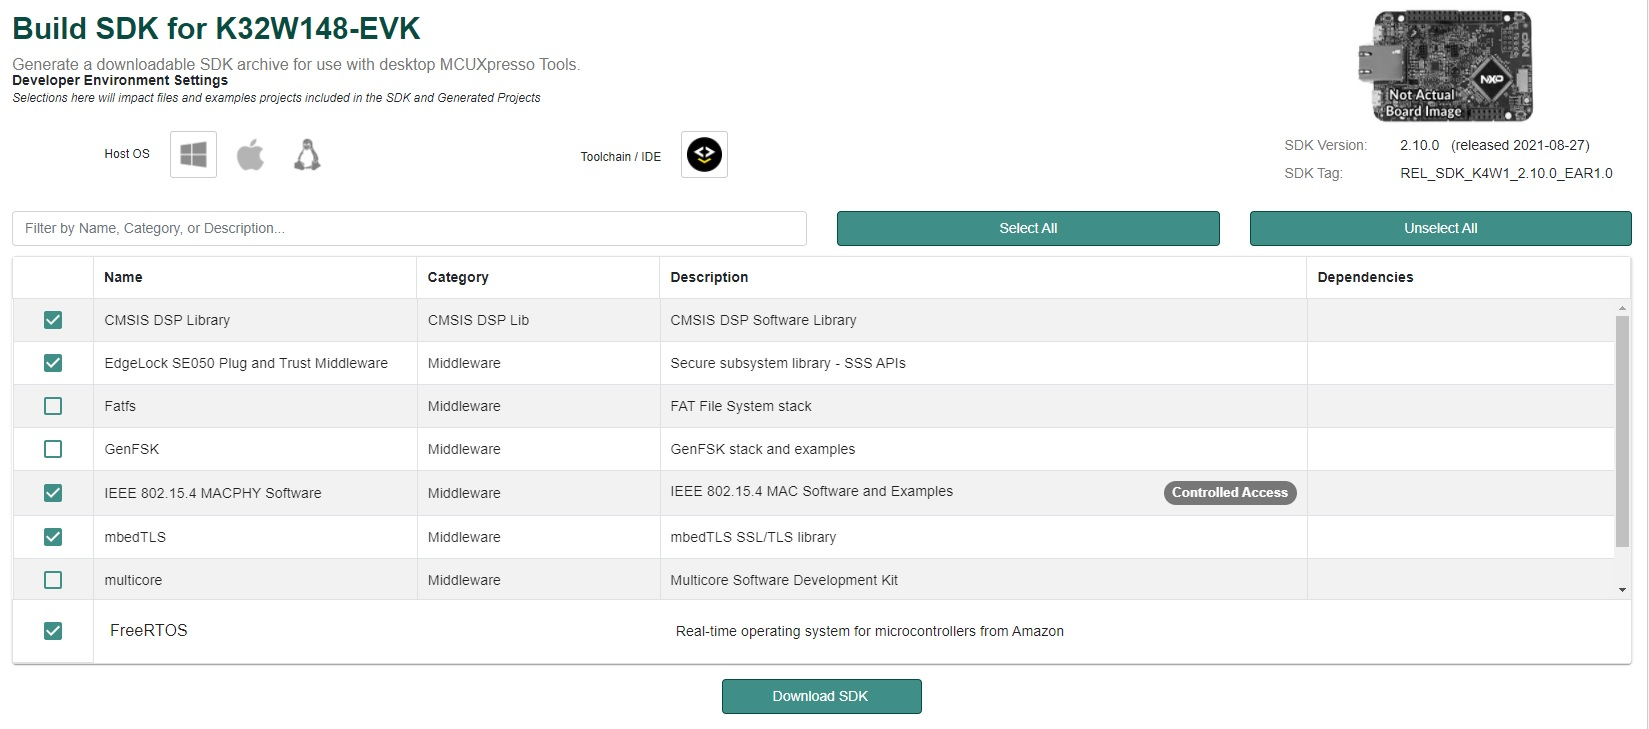
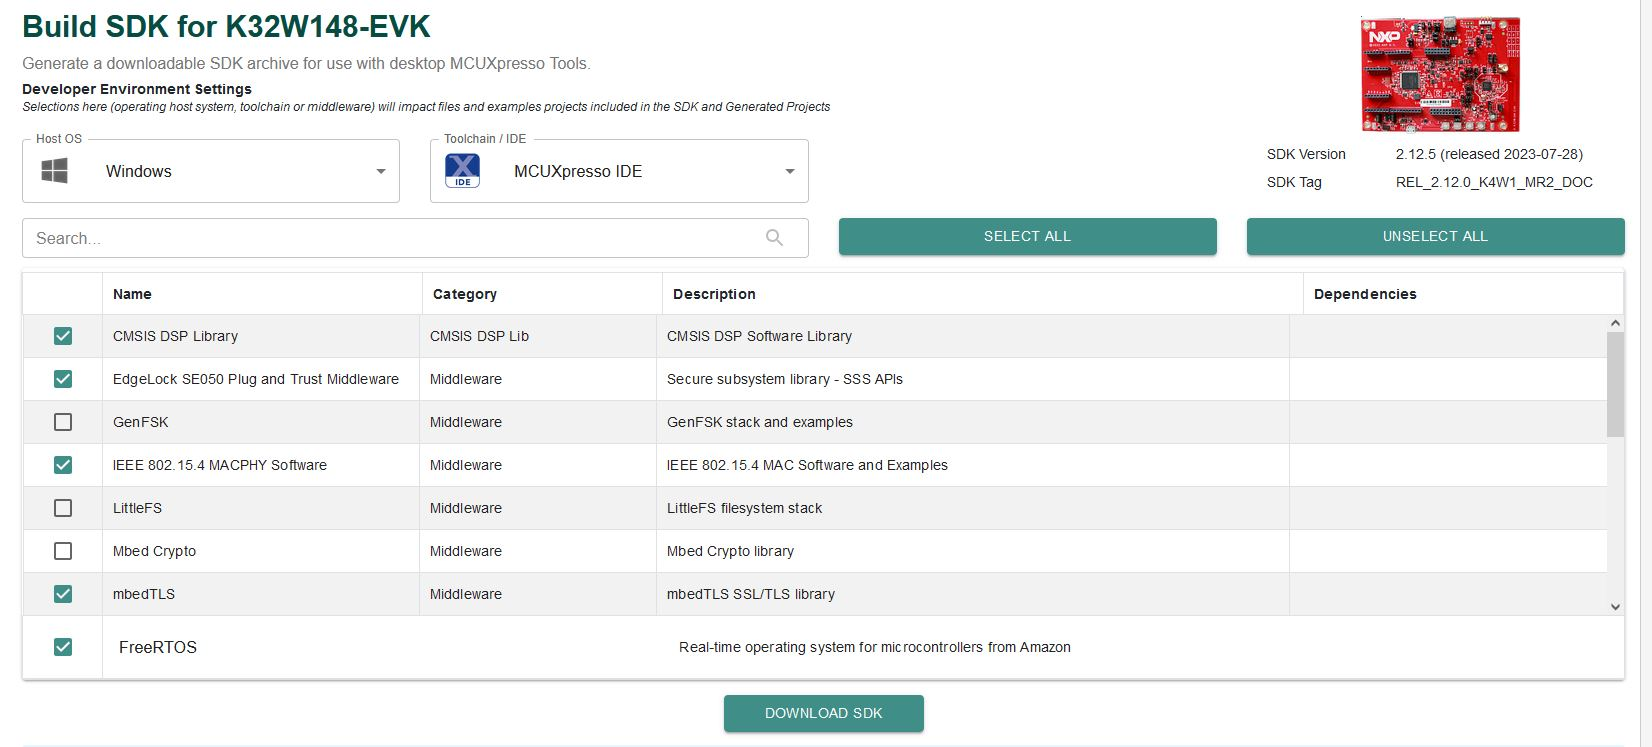
[K32W1] Update documentation

diff --git a/src/k32w1/k32w1/README.md b/src/k32w1/k32w1/README.md
@@ -26,7 +26,7 @@ $ ./script/bootstrap
 - Download [the latest SDK from the link.](https://mcuxpresso.nxp.com/).
   Creating an nxp.com account is required before being able to download the
   SDK. Once the account is created, login and follow the steps for downloading
-  SDK_2.12.0_K32W148-EVK. The SDK Builder UI selection should be similar with
+  SDK_2.12.5_K32W148-EVK. The SDK Builder UI selection should be similar with
   the one from the image below.
   ![MCUXpresso SDK Download](../../../doc/img/k32w1/mcux-sdk-download.jpg)
 
